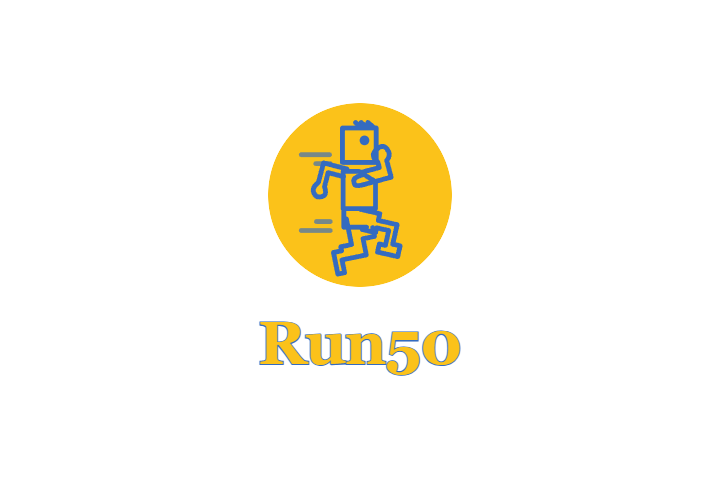
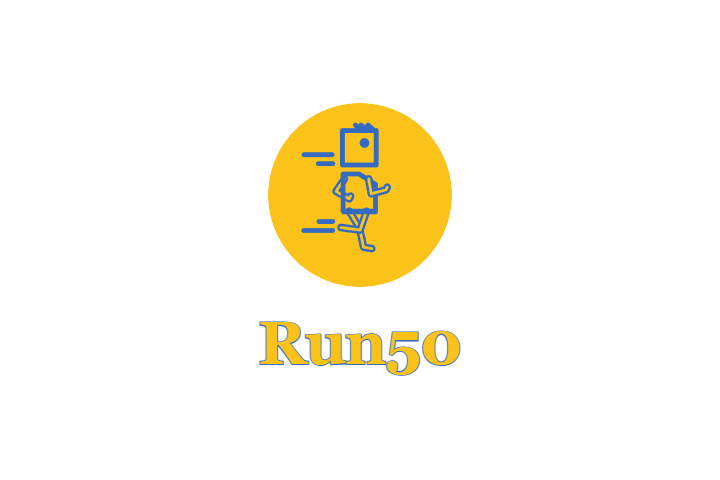
Refine robot gait with articulated knees and smaller steps

Changed region(s): [[0.3972, 0.25, 0.5806, 0.5938]]

diff --git a/tools/run50-intro/index.html b/tools/run50-intro/index.html
@@ -18,12 +18,12 @@
 <g fill="none" stroke="#346bc0" stroke-width="7" stroke-linecap="round" stroke-linejoin="round">
 <g class="speed-lines"><path d="M52 75H93 M73 88H94 M52 185H94 M74 172H94"/></g>
 <g class="runner-body">
-<g class="arm-back"><path d="M111 108H76V137 Q65 151 79 158 Q96 156 86 141 V120H109"/></g>
-<g class="leg-back"><path d="M109 157V195H93V201H81V233H91V214H127V190H144V177"/></g>
-<g class="leg-front"><path d="M134 158H163V168H191V197H202V213H172V201H181V179H163V186H143"/></g>
-<path d="M109 103H132L156 118V157H109Z M110 158V184H143"/>
+<g class="arm-back"><path class="arm-back-path" stroke-width="11"/><path class="arm-back-path" stroke="#fbc21a" stroke-width="4"/></g>
+<g class="leg-back"><path class="leg-back-path" stroke-width="11"/><path class="leg-back-path" stroke="#fbc21a" stroke-width="4"/></g>
+<g class="leg-front"><path class="leg-front-path" stroke-width="11"/><path class="leg-front-path" stroke="#fbc21a" stroke-width="4"/></g>
+<path d="M109 103H132L156 118V157H109Z M110 158H156"/>
 <g class="head"><path d="M108 40H157V90H108Z M127 32L135 40V32L145 40V32L157 42"/><circle cx="140" cy="58" r="7" fill="#346bc0" stroke="none"/></g>
-<g class="arm-front"><path d="M143 104H170V96 Q161 84 172 78 Q186 70 189 85 Q190 92 183 97V122H139 Q127 122 129 115 Q128 108 143 108"/></g>
+<g class="arm-front"><path class="arm-front-path" stroke-width="11"/><path class="arm-front-path" stroke="#fbc21a" stroke-width="4"/></g>
 </g></g></svg></div>
 <p class="word">Run50</p>
 </div></div>
@@ -37,11 +37,28 @@ tl.from('.arcs',{scale:.6,rotation:-100,opacity:0,duration:.6,ease:'power2.out'}
   .from('.word',{y:10,scale:.95,opacity:0,duration:.45,ease:'power3.out'},1.6)
   .to('.word',{opacity:0,y:5,duration:.35,ease:'power1.in'},4.2)
   .to('.robot',{scale:.9,opacity:0,duration:.35,ease:'power2.in'},4.4);
-tl.fromTo('.leg-front',{rotation:-18},{rotation:23,svgOrigin:'134 158',duration:.24,yoyo:true,repeat:9,ease:'sine.inOut'},1.7)
-  .fromTo('.leg-back',{rotation:20},{rotation:-22,svgOrigin:'120 158',duration:.24,yoyo:true,repeat:9,ease:'sine.inOut'},1.7)
-  .fromTo('.arm-front',{rotation:12},{rotation:-24,svgOrigin:'132 108',duration:.24,yoyo:true,repeat:9,ease:'sine.inOut'},1.7)
-  .fromTo('.arm-back',{rotation:-14},{rotation:24,svgOrigin:'110 108',duration:.24,yoyo:true,repeat:9,ease:'sine.inOut'},1.7)
-  .fromTo('.runner-body',{y:0},{y:-5,duration:.12,yoyo:true,repeat:19,ease:'sine.inOut'},1.7)
-  .fromTo('.speed-lines',{x:0},{x:-5,opacity:.55,duration:.24,yoyo:true,repeat:9,ease:'sine.inOut'},1.7);
+// Articulated gait: bent recovery knee, extended landing leg, opposite arms.
+function leg(phase,x){
+ const hip=[x,157], thigh=(-6+25*Math.cos(phase))*Math.PI/180;
+ const bend=(49+34*Math.cos(phase-.5))*Math.PI/180;
+ const knee=[hip[0]-Math.sin(thigh)*29,hip[1]+Math.cos(thigh)*29];
+ const shin=thigh+bend;
+ const ankle=[knee[0]-Math.sin(shin)*28,knee[1]+Math.cos(shin)*28];
+ return `M${hip} L${knee} L${ankle} L${ankle[0]+12},${ankle[1]+2}`;
+}
+function arm(phase,x){
+ const shoulder=[x,110], angle=(12+22*Math.cos(phase))*Math.PI/180;
+ const elbow=[x-Math.sin(angle)*22,110+Math.cos(angle)*22];
+ const forearm=angle-1.65;
+ const hand=[elbow[0]-Math.sin(forearm)*22,elbow[1]+Math.cos(forearm)*22];
+ return `M${shoulder} L${elbow} L${hand} L${hand[0]+2},${hand[1]-4}`;
+}
+const parts=[['.leg-front-path',p=>leg(p,143)],['.leg-back-path',p=>leg(p+Math.PI,118)],['.arm-front-path',p=>arm(p+Math.PI,146)],['.arm-back-path',p=>arm(p,111)]];
+for(const [sel,shape] of parts){
+ gsap.set(sel,{attr:{d:shape(0)}});
+ for(let step=1;step<=36;step++)tl.to(sel,{attr:{d:shape(step*Math.PI/6)},duration:1/15,ease:'none'},1.7+(step-1)/15);
+}
+tl.fromTo('.runner-body',{y:0,rotation:0},{y:-2,rotation:1,svgOrigin:'133 150',duration:.2,yoyo:true,repeat:11,ease:'sine.inOut'},1.7)
+  .fromTo('.speed-lines',{x:0},{x:-3,opacity:.75,duration:.4,yoyo:true,repeat:5,ease:'sine.inOut'},1.7);
 window.__timelines['run50-intro']=tl;tl.seek(0);
 </script></body></html>

diff --git a/run50/wechat/michigan-meadows-marathon-modern-rail.html b/run50/wechat/michigan-meadows-marathon-modern-rail.html
@@ -17,7 +17,7 @@ strong{font-weight:700}em{font-family:Georgia,serif}figure+figure{margin-top:42p
 <h1>Run50 #第21州｜密歇根：梅多马拉松｜在大急流城数圈，6次穿越千禧公园！</h1>
 <p class="byline">梅多马拉松 · 大急流城<br>文字 / Arsenan</p>
 </header>
-<picture class="brand-intro"><source media="(prefers-reduced-motion: reduce)" srcset="../../assets/run50-robot-intro-still.png?v=20261001-running"><img src="../../assets/run50-robot-intro.gif?v=20261001-running" alt="Run50 跑步机器人片头" width="720" height="480"></picture>
+<picture class="brand-intro"><source media="(prefers-reduced-motion: reduce)" srcset="../../assets/run50-robot-intro-still.png?v=20261001-natural-jog"><img src="../../assets/run50-robot-intro.gif?v=20261001-natural-jog" alt="Run50 跑步机器人片头" width="720" height="480"></picture>
 <section class="cover" aria-label="密歇根草甸赛道开篇">
 <img src="../stories/chinese/Run50-Michigan-Meadows-Marathon-clean_files/img-033.webp" alt="在草甸赛道上举起双手" fetchpriority="high" width="1438" height="1310">
 <p class="hero-credit">摄影 / 赛事官方</p>

diff --git a/tools/build_wechat_michigan_editorial.py b/tools/build_wechat_michigan_editorial.py
@@ -27,7 +27,7 @@ def render():
 <h1>__ARTICLE_TITLE__</h1>
 <p class="byline">梅多马拉松 · 大急流城<br>文字 / Arsenan</p>
 </header>
-<picture class="brand-intro"><source media="(prefers-reduced-motion: reduce)" srcset="../../assets/run50-robot-intro-still.png?v=20261001-running"><img src="../../assets/run50-robot-intro.gif?v=20261001-running" alt="Run50 跑步机器人片头" width="720" height="480"></picture>
+<picture class="brand-intro"><source media="(prefers-reduced-motion: reduce)" srcset="../../assets/run50-robot-intro-still.png?v=20261001-natural-jog"><img src="../../assets/run50-robot-intro.gif?v=20261001-natural-jog" alt="Run50 跑步机器人片头" width="720" height="480"></picture>
 <section class="cover" aria-label="密歇根草甸赛道开篇">
 <img src="''' + PHOTO + '''img-033.webp" alt="在草甸赛道上举起双手" fetchpriority="high" width="1438" height="1310">
 <p class="hero-credit">摄影 / 赛事官方</p>

diff --git a/tools/run50-intro/DESIGN.md b/tools/run50-intro/DESIGN.md
@@ -2,4 +2,4 @@
 
 Use the original yellow (#fbc21a) and blue (#346bc0) running robot and the restrained seal-reveal rhythm of the supplied recording. The outer canvas is transparent. Two arcs turn, the robot appears, then Georgia bold Run50 lettering settles. Yellow lettering with a blue outline stays legible on both themes. Five seconds, including a long hold. No slogans, glows, wide tracking, background rectangle or robot redesign.
 
-The blue robot is articulated as SVG paths matching the original crown, square head, eye and angular limbs. During the hold, arms and legs alternate around their joints, the torso bobs 5px and the speed lines shift gently. The yellow disc stays fixed.
+The blue robot is articulated as SVG paths matching the original crown, square head, eye and angular limbs. During the hold, arms and legs alternate around their joints, the torso bobs 2px and the speed lines shift gently. The yellow disc stays fixed.

diff --git a/tools/run50-intro/README.md b/tools/run50-intro/README.md
@@ -14,4 +14,4 @@ ffmpeg -y -framerate 20 -i <frames-directory>/frame-%03d.png -filter_complex "[0
 
 The article selects the still PNG when reduced motion is requested. Do not matte the GIF against white or black. Verify both themes before replacing the asset.
 
-The running update articulates a vector tracing of the original robot. Leg pivot-drift warnings are intentional: legs rotate around the hip, not their bounding-box center. The original bitmap is retained as the design reference.
+The running update articulates a vector tracing of the original robot. Each leg has separate hip, knee and ankle positions; recovery knees bend while the opposite leg extends. The original bitmap is retained as the design reference.
